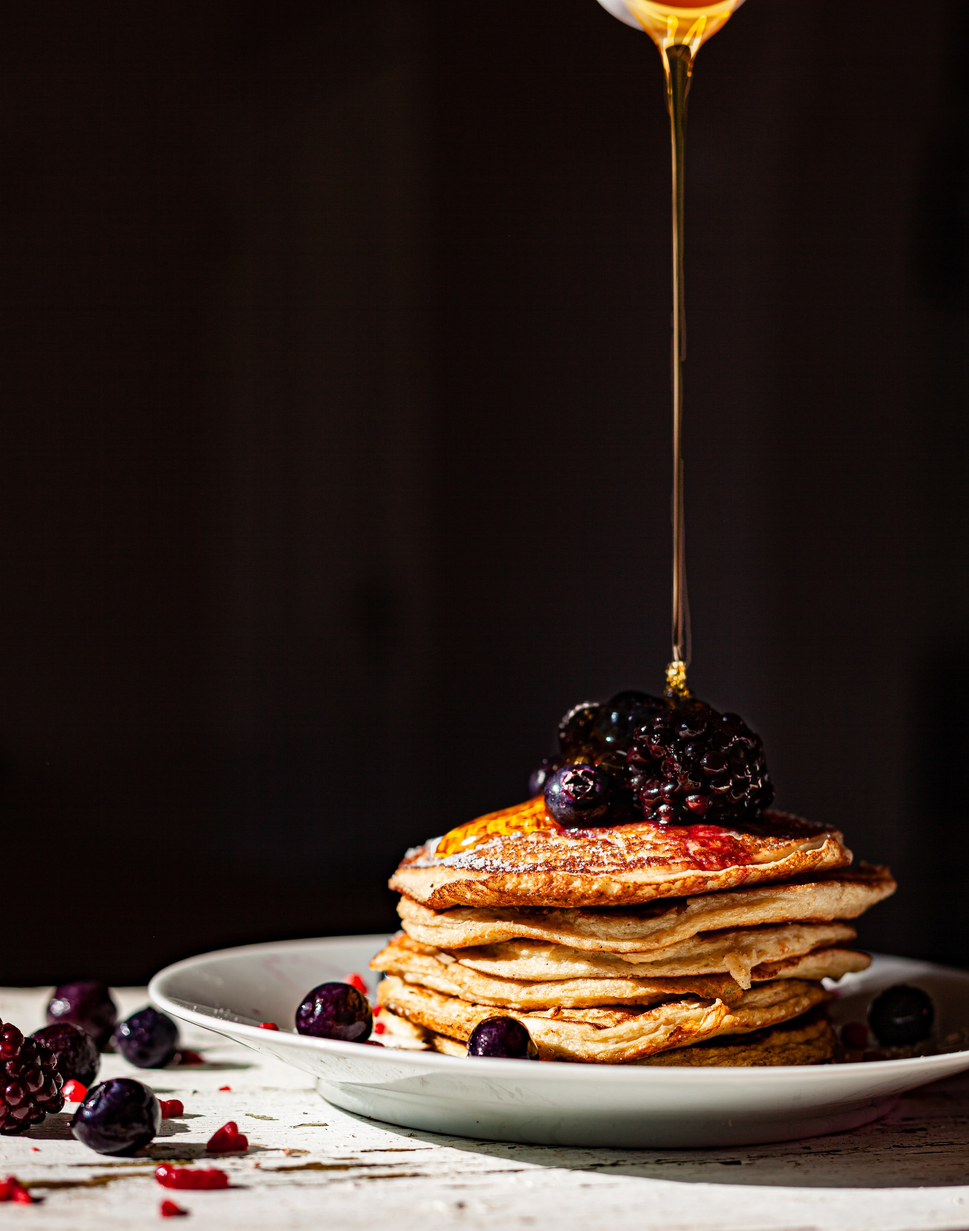
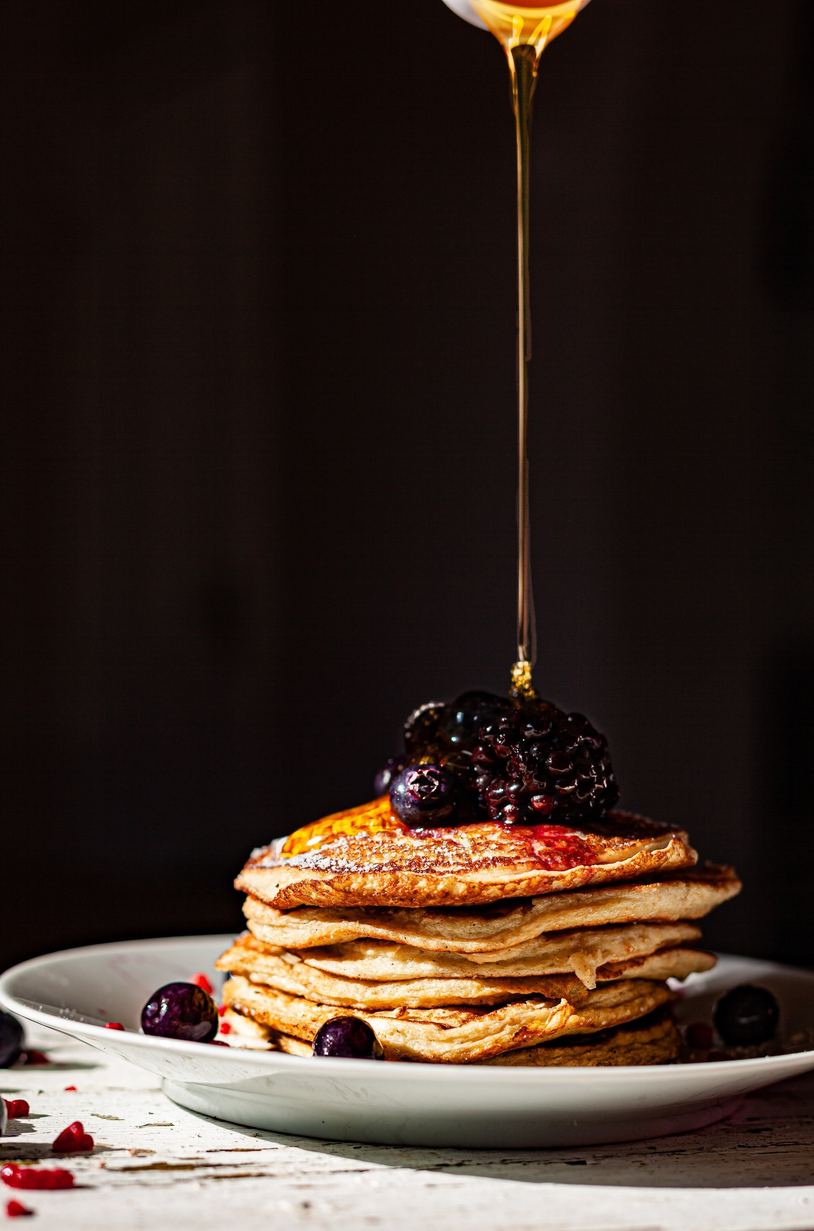
16/05 part2

diff --git a/src/app/features/recipe/create-recipe/create-recipe.component.html b/src/app/features/recipe/create-recipe/create-recipe.component.html
@@ -4,20 +4,28 @@
     <div>
       <form [formGroup]="recipeForm" (ngSubmit)="onSubmit()">
         <div class="form-group-titre">
-          <input type="text" placeholder="Nom de la recette" id="name" formControlName="name">
+          <input type="text" placeholder="Nom de la recette" id="name" formControlName="name" class="inputtitre">
         </div>
+
         <div class="container">
+
           <div class="part1">
             <div class="form-group-ingredient">
               <label for="ingredient">Ingredients:</label>
-              <input type="number" id="quantity" formControlName="quantity">
-              <input type="text" id="ingredient" formArrayName="ingredient">
+              <div>
+                <input type="number" id="quantity" formControlName="quantity" class="inputquantity">
+                <input type="text" id="ingredient" formArrayName="ingredient" class="inputingredient">
+              </div>
+
             </div>
             <div class="form-group-cuisson">
               <label for="tempsCuisson">Temps de cuisson:</label>
-              <input type="text" id="tempsCuisson" formControlName="tempsCuisson" placeholder="20min à 180°">
+              <div>
+                <input type="text" id="tempsCuisson" formControlName="tempsCuisson" placeholder="20min à 180°" class="inputcuisson">
+              </div>
             </div>
           </div>
+
           <div class="part2">
             <div class="form-group-instruction">
               <label for="instruction">Instructions:</label>
@@ -25,7 +33,9 @@
             </div>
             <button type="submit" class="btn">Enregistrer</button>
           </div>
+
         </div>
+
       </form>
     </div>
   </div>

diff --git a/src/app/features/recipe/create-recipe/create-recipe.component.scss b/src/app/features/recipe/create-recipe/create-recipe.component.scss
@@ -1,11 +1,10 @@
 img {
   width: auto;
-  height: 86vh;
+  height: 86.5vh;
 }
 .main {
   display: flex;
-  justify-content: flex-start;
-  align-items: center;
+  align-items: flex-start;
   background-color: #52263f;
 }
 .meta {
@@ -22,18 +21,21 @@ img {
   border: 2px solid #e49201;
   border-radius: 20px;
   padding: 5% 0% 90% 8%;
+  margin: 40px 10px 10px 0px;
  }
 .form-group-cuisson {
   background-color: #52263f;
   border: 2px solid #e49201;
   border-radius: 20px;
   padding: 5% 0% 10% 8%;
+  margin: 20px 10px 0px 0px;
 }
 .form-group-instruction {
   background-color: #52263f;
   border: 2px solid #e49201;
   border-radius: 20px;
-  padding: 5% 0% 100% 8%;
+  padding: 5% 0% 88% 8%;
+  margin: 40px 0px 10px 10px;
 }
 .btn {
   font-size: medium;
@@ -42,6 +44,7 @@ img {
   border-radius: 20px;
   background-color: #e49201;
   color: #52263f;
+  margin-top: 40px;
 }
 label {
   color: #C28593;
@@ -58,3 +61,17 @@ label {
   align-items: center;
   width: 100%;
 }
+.part1{
+
+}
+
+.part2{
+  display: flex;
+  flex-direction: column;
+  align-items: center;
+}
+
+.inputtitre{}
+.input-ingredient{}
+.inputquantity{}
+.inputcuisson{}

diff --git a/src/app/features/home/home.component.html b/src/app/features/home/home.component.html
@@ -1,16 +1,16 @@
 <div class="main">
-  <img src="assets/images/home2.jpg" alt="pancakes">
+  <img src="assets/images/home.jpg" alt="pancakes">
   <div class="meta">
     <div>
       <div class="meta">
         <input type="text" placeholder="Search">
       </div>
       <div class="buttoncontainer">
-        <div class="voila">
+        <div class="buttoncontainer2">
           <img src="assets/images/button-add-recipe.png" routerLink="/create-recipe" class="image-home">
           <p class="title-btn" routerLink="/create-recipe">Add Recipe</p>
         </div>
-        <div class="voila">
+        <div class="buttoncontainer2">
           <img src="assets/images/button-livre.jpg" routerLink="/all-recipes" class="image-home">
           <p class="title-btn" routerLink="/all-recipes">See Recipes</p>
         </div>

diff --git a/src/app/features/home/home.component.scss b/src/app/features/home/home.component.scss
@@ -1,6 +1,6 @@
 img {
   width: auto;
-  height: 86vh;
+  height: 86.5vh;
 }
 .main {
   display: flex;
@@ -26,6 +26,7 @@ input {
 }
 .buttoncontainer {
   display: flex;
+  margin-top: 40px;
 }
 .image-home:hover {
   transform: scale(1.05);
@@ -45,7 +46,7 @@ input {
   color: #C28593;
   font-size: 30px;
 }
-.voila {
+.buttoncontainer2 {
   display: flex;
   flex-direction: column;
   align-items: center;
